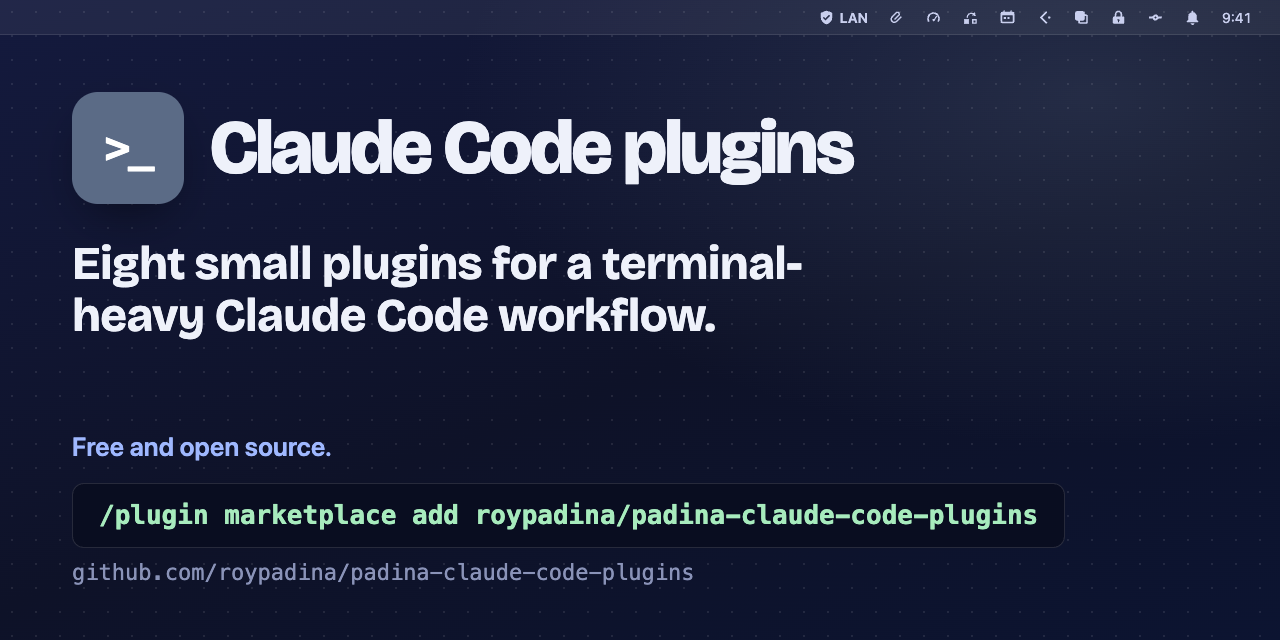
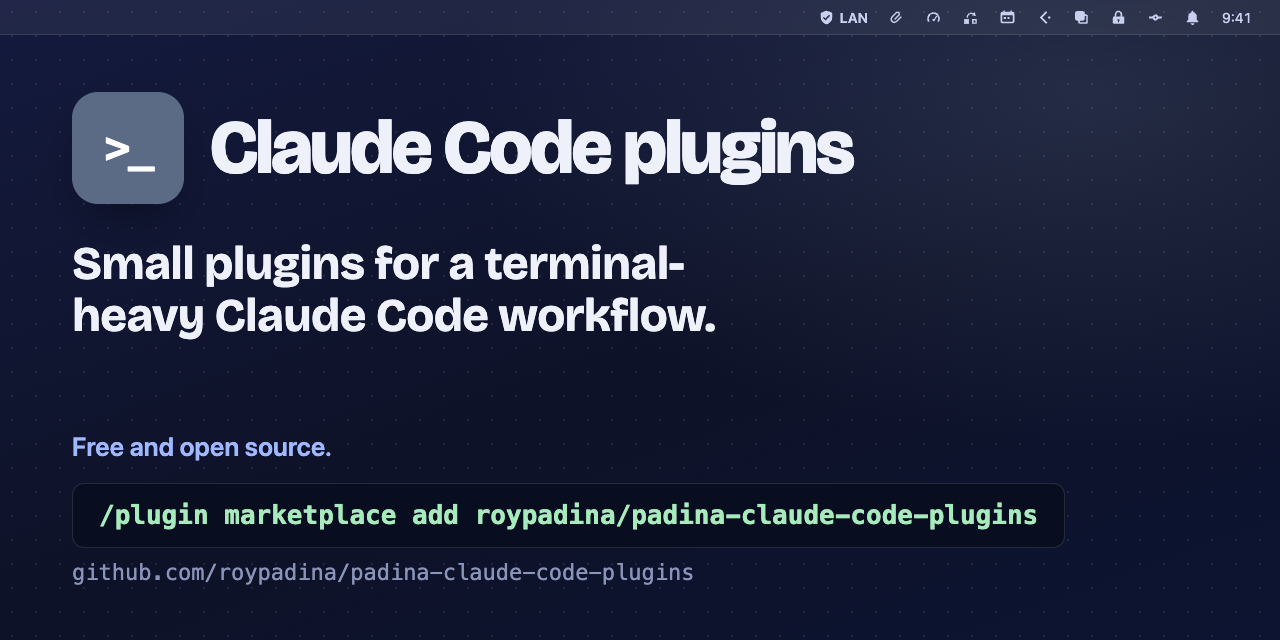
Drop plugin count from README, refresh social preview (#5)

Changed region(s): [[0.0625, 0.375, 0.625, 0.4688]]

diff --git a/README.md b/README.md
@@ -3,12 +3,7 @@
 [![Website](https://img.shields.io/badge/website-apps.roypadina-2F62E6)](https://apps.roypadina.synology.me/)
 [![Ko-fi](https://img.shields.io/badge/Ko--fi-support-F16061?logo=ko-fi&logoColor=white)](https://ko-fi.com/roypadina)
 
-A [Claude Code](https://claude.com/claude-code) plugin marketplace. Eight plugins so far: one that
-wires Claude into the cmux terminal, one that gives your sessions a memory of themselves, one that
-recaps and closes out sessions so nothing falls through the cracks, one that runs the release
-checklist for my Mac apps, one that repairs Hebrew/English layout typos, one that teaches Claude the
-Espanso text-expander CLI, one that researches recipes with parallel subagents, one that hands you
-values through your MaccyPlus clipboard history, labelled by session.
+A [Claude Code](https://claude.com/claude-code) plugin marketplace. Small plugins for a terminal-heavy Claude Code workflow: cmux integration, session memory, recaps and close-out, the release checklist for my Mac apps, Hebrew/English layout repair, Espanso control, recipe research with parallel subagents, and a MaccyPlus clipboard bridge.
 
 ```
 /plugin marketplace add roypadina/padina-claude-code-plugins
